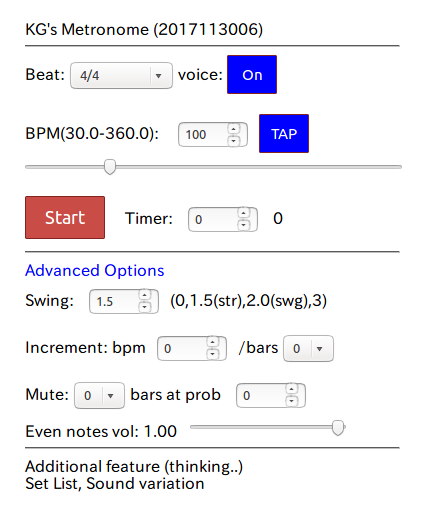
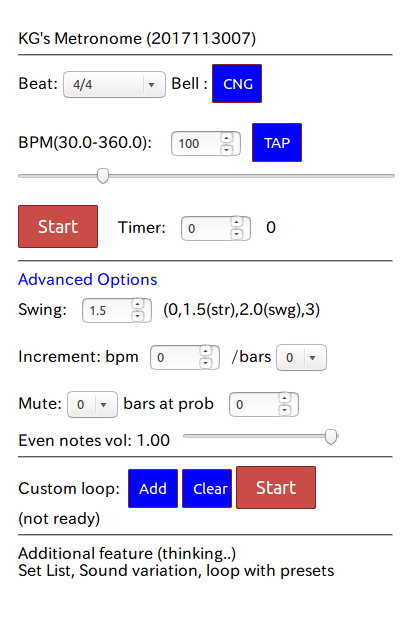
update

Changed region(s): [[0.031, 0.0305, 0.9595, 0.9448]]

diff --git a/index.html b/index.html
@@ -26,11 +26,10 @@ https://github.com/goto920/nodejs/metronome/</A>.<BR>
 <H3>Basic Operation -- Select Beat, Adjust BPM, then press Start</H3>
 <OL>
 <LI>Select Beat: 4/4, 6/8, 8/8 swing etc.
-<LI>(My) voice(default off):  My voice of 1, 2, 3, 4 
-in addition to cowbels
-<LI>Adjust bpm(0.1 step) with the range slider (play continues)<BR />
-or enter/modify number (play stops)<BR />
-or TAP.
+<LI>Sound selection:  Cowbell/Voice/Both(Cowbell+Voice
+<LI>Adjust bpm(0.1 step) with the range slider (play continues),<BR />
+enter/modify number (play stops),<BR />
+or set bpm with TAP(timeout 3 sec).
 <LI>Start/Stop 
 <LI>Timer(sec): Similar to kitchen timer.
 Set positive number for expiration time in second.
@@ -44,7 +43,7 @@ Set 0 to disable the timer.
 <TT>
 <PRE>
 0-------------1--------------2 (1.5: straight)
-0----------------1-----------2 (1.8: lightly swing)
+0----------------1-----------2 (1.8: less swing)
 0------------------1---------2 (2.0: swing)
 0--------------------1-------2 (2.2: more swing)
 0-----------------------1----2 (2.5: extreme swing)
